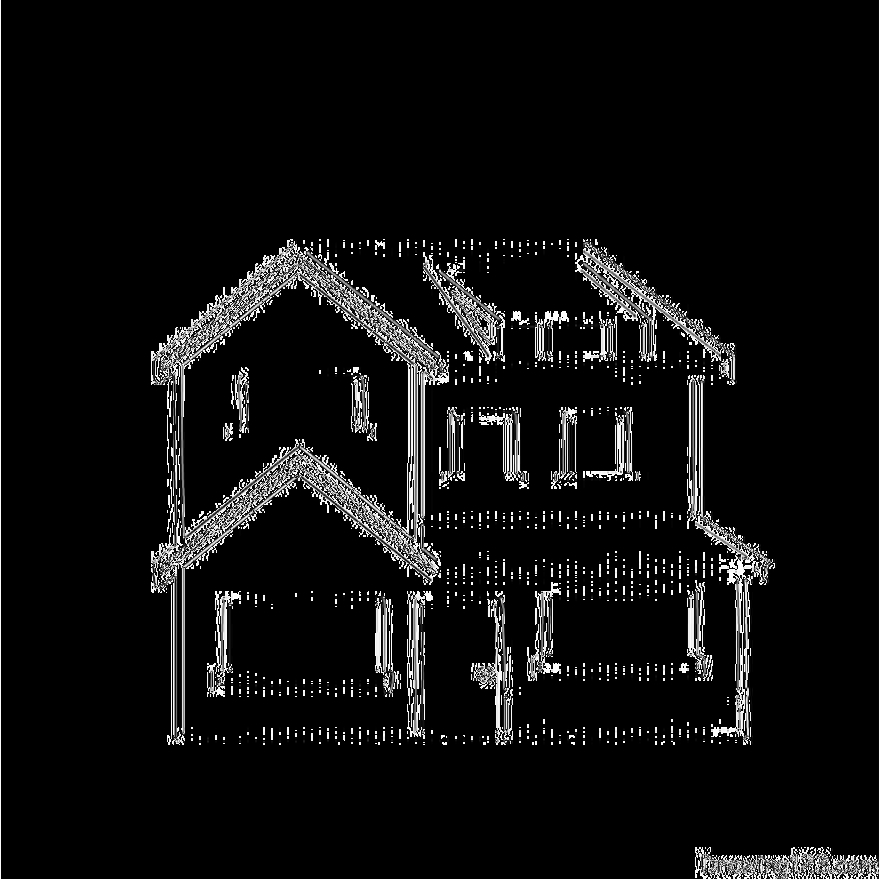
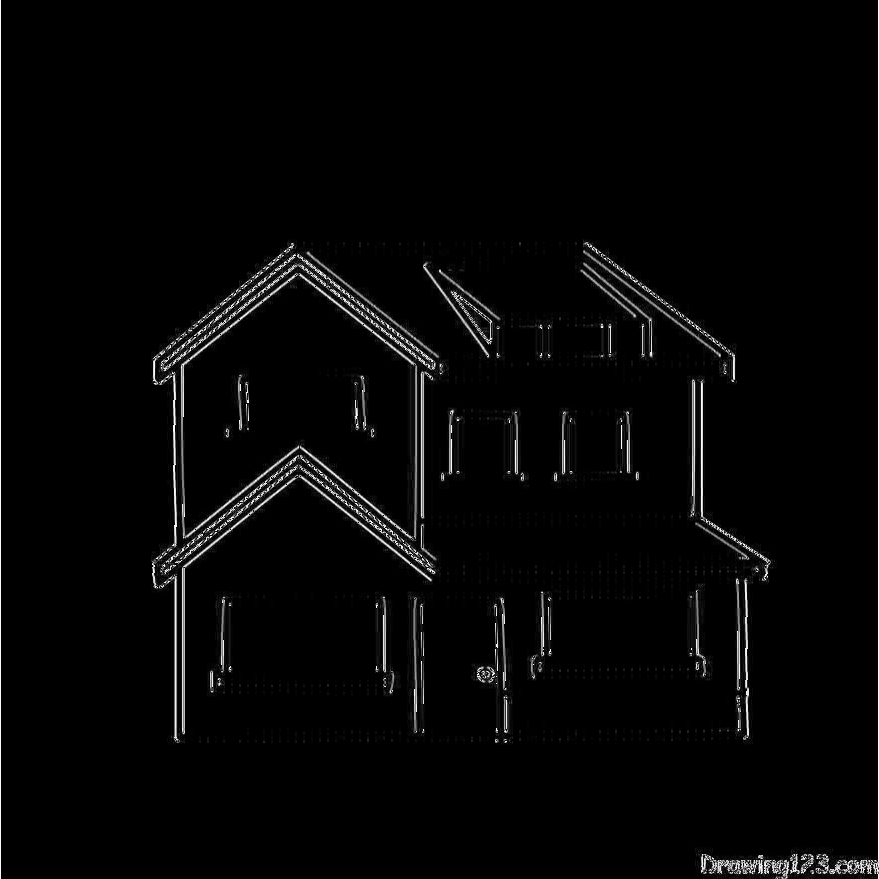
modify(rcm-convolution-sum)
type casted the absolute value of the 'sum' variable that contains the convolution results of the image with the Robinson's Compass mask

diff --git a/main.c b/main.c
@@ -59,7 +59,7 @@ robCompMask(unsigned char *img_out, unsigned char *img_in, int width, int height
             }
 
             // Set the output pixel to the sum
-            img_out[h * width + w] = sum;
+            img_out[h * width + w] = (unsigned char) abs(sum);
         }
     }
 }
